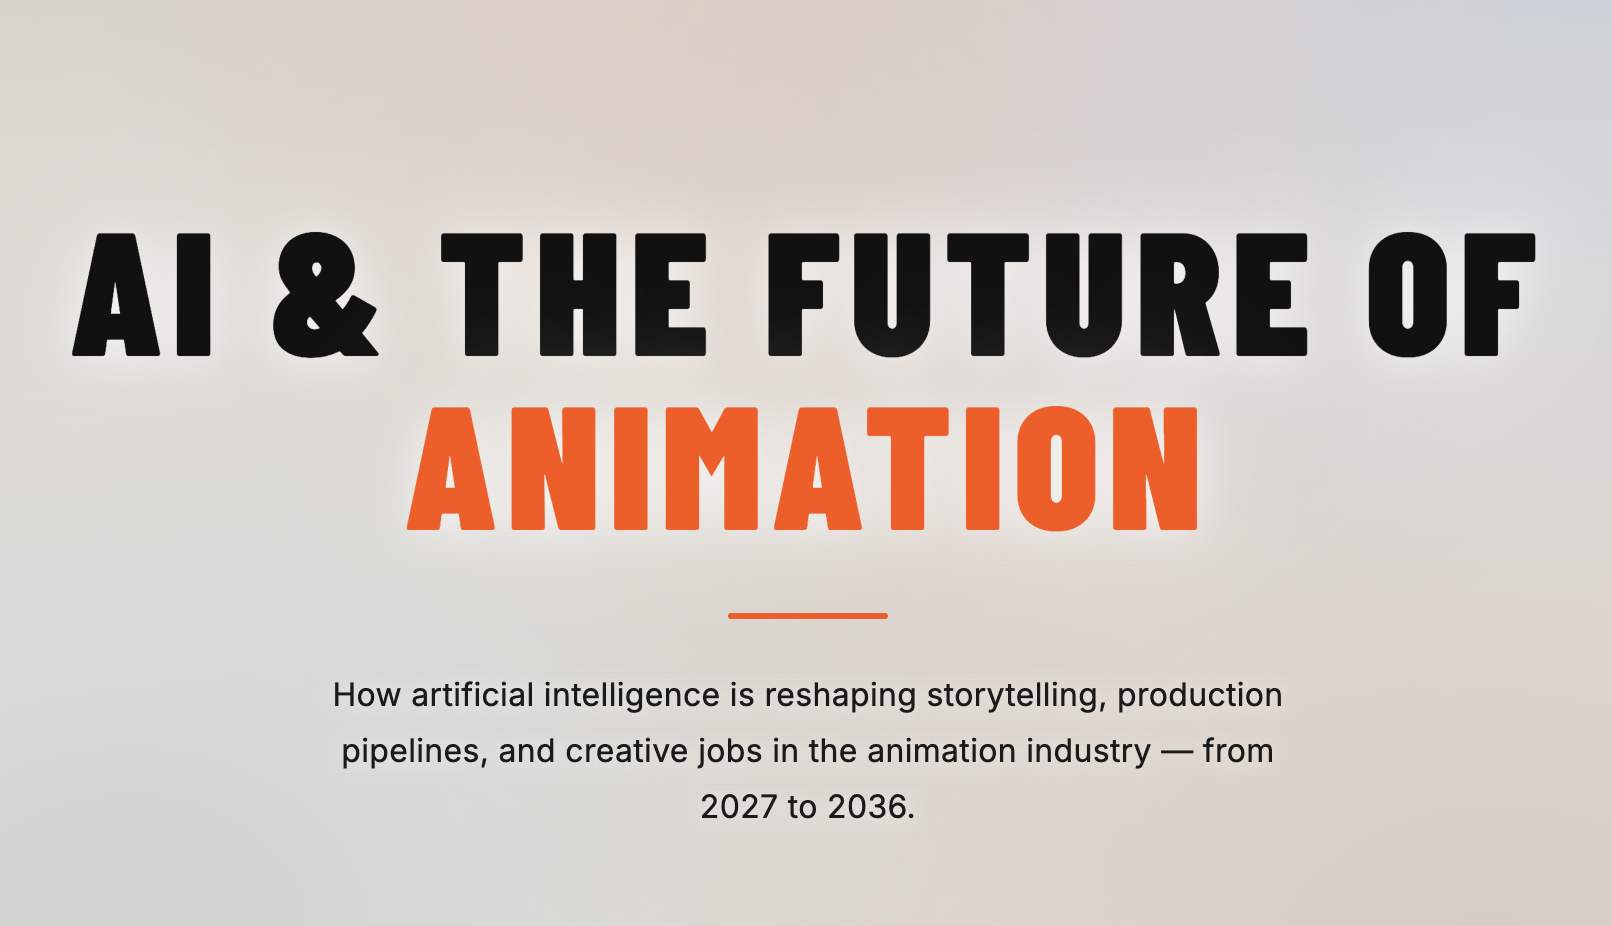
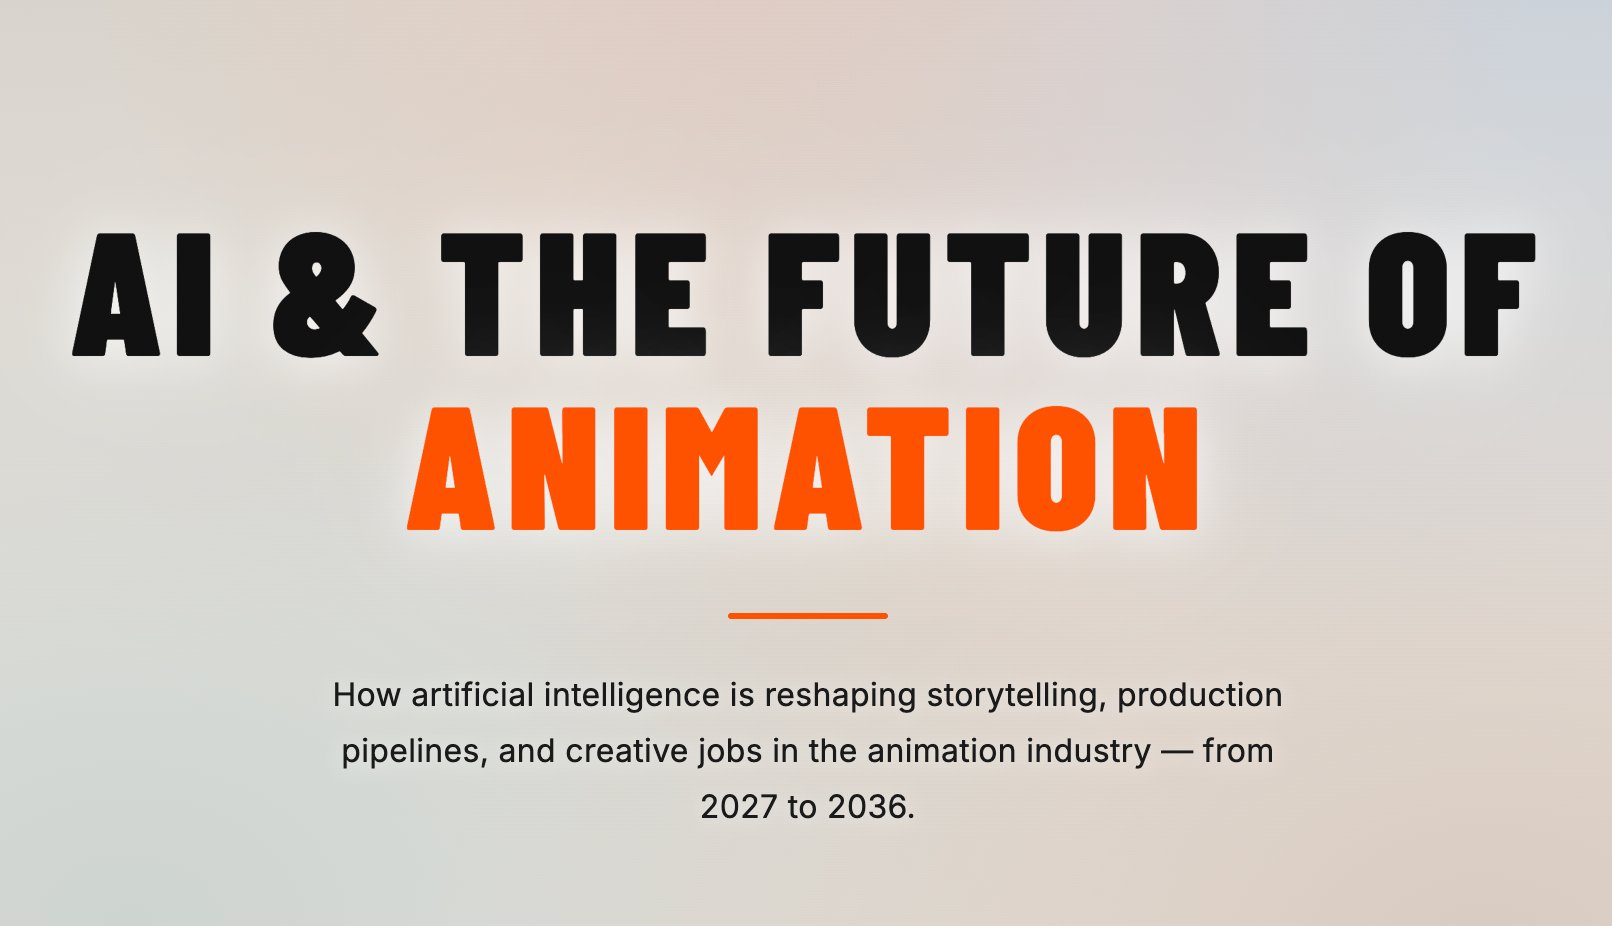
mobile update

Changed region(s): [[0.2481, 0.4233, 0.7444, 0.5745], [0.4653, 0.635, 0.5583, 0.6955]]

diff --git a/index.html b/index.html
@@ -2546,7 +2546,7 @@
     <!-- Left: branding -->
     <div>
       <div class="project-title">What's Next? — AI in Animation</div>
-      <div class="team-names">Jappan · Tyler · Yuri · BCIT · 2026</div>
+      <div class="team-names">Jappan · Tyler · Yuri · BCIT · 2025</div>
     </div>
     <!-- Center: scenario toggle -->
     <div class="toggle-group" id="scenarioToggle">